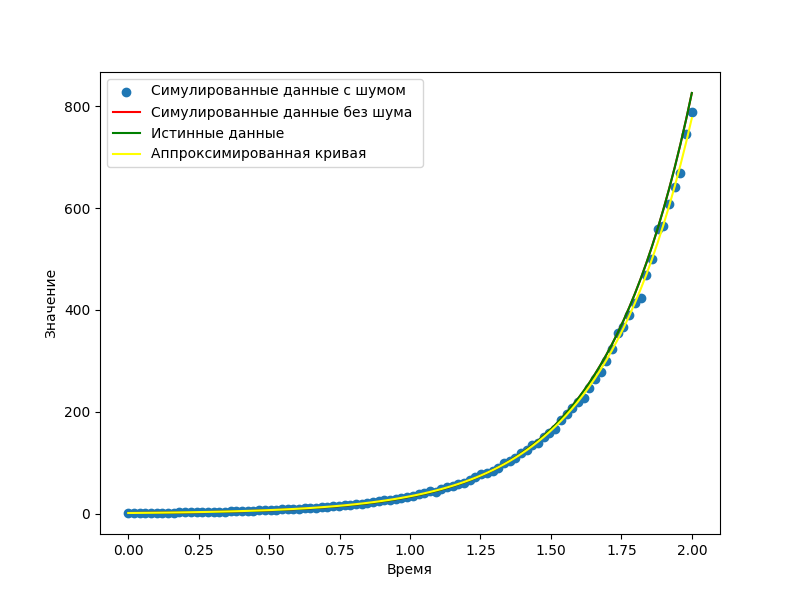
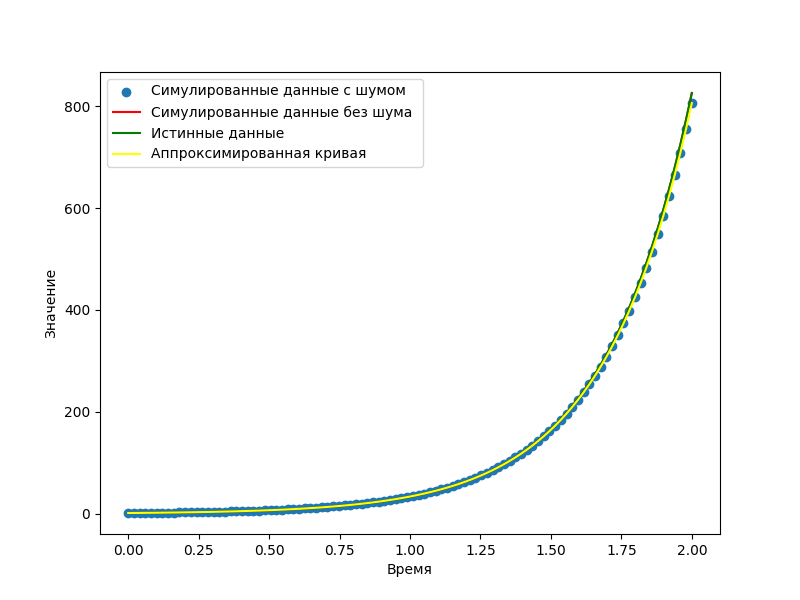
Add changes

diff --git a/README.md b/README.md
@@ -5,7 +5,7 @@ Output:
 ![output](output1.png)
 True parameters: [3.21, 1.11]
 
-Fitted Parameters with noise: [3.1184547  1.62108157]
+Fitted Parameters with noise: [3.17371313 1.30905308]
 
 Fitted Parameters without noise:[3.21 1.11]
 
@@ -15,6 +15,6 @@ Output:
 ![output](output2.png)
 True parameters: [1.5, 10]
 
-Fitted Parameters with noise: [1.53874125 6.68542665]
+Fitted Parameters with noise: [1.51544847 8.54737649]
 
 Fitted Parameters without noise:[ 1.5 10. ]
